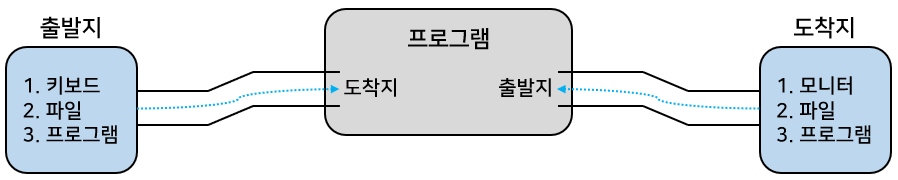
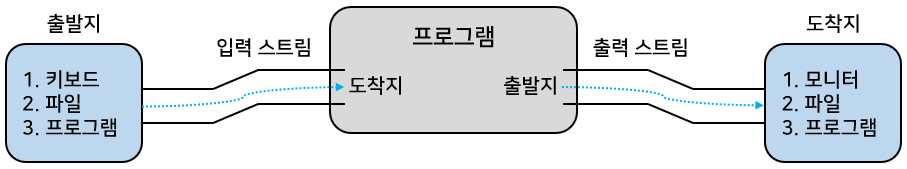
JAVA 입출력 스트림 내용수정
- 그림 수정
- File 클래스 마지막 예시코드 수정

Resolves: #issueNo
See also: #issueNo

diff --git a/Java/18_IO_Stream/README.md b/Java/18_IO_Stream/README.md
@@ -1385,6 +1385,6 @@ FileInputStream fis = new FileInputStream("C:/Temp2/image.gif");
 
 // 두 번째 방법
 File file = new File("C:/Temp2/image.gif");
-FileInputStream fis = new FileInputStream("file");
+FileInputStream fis = new FileInputStream(file);
 ```
 
